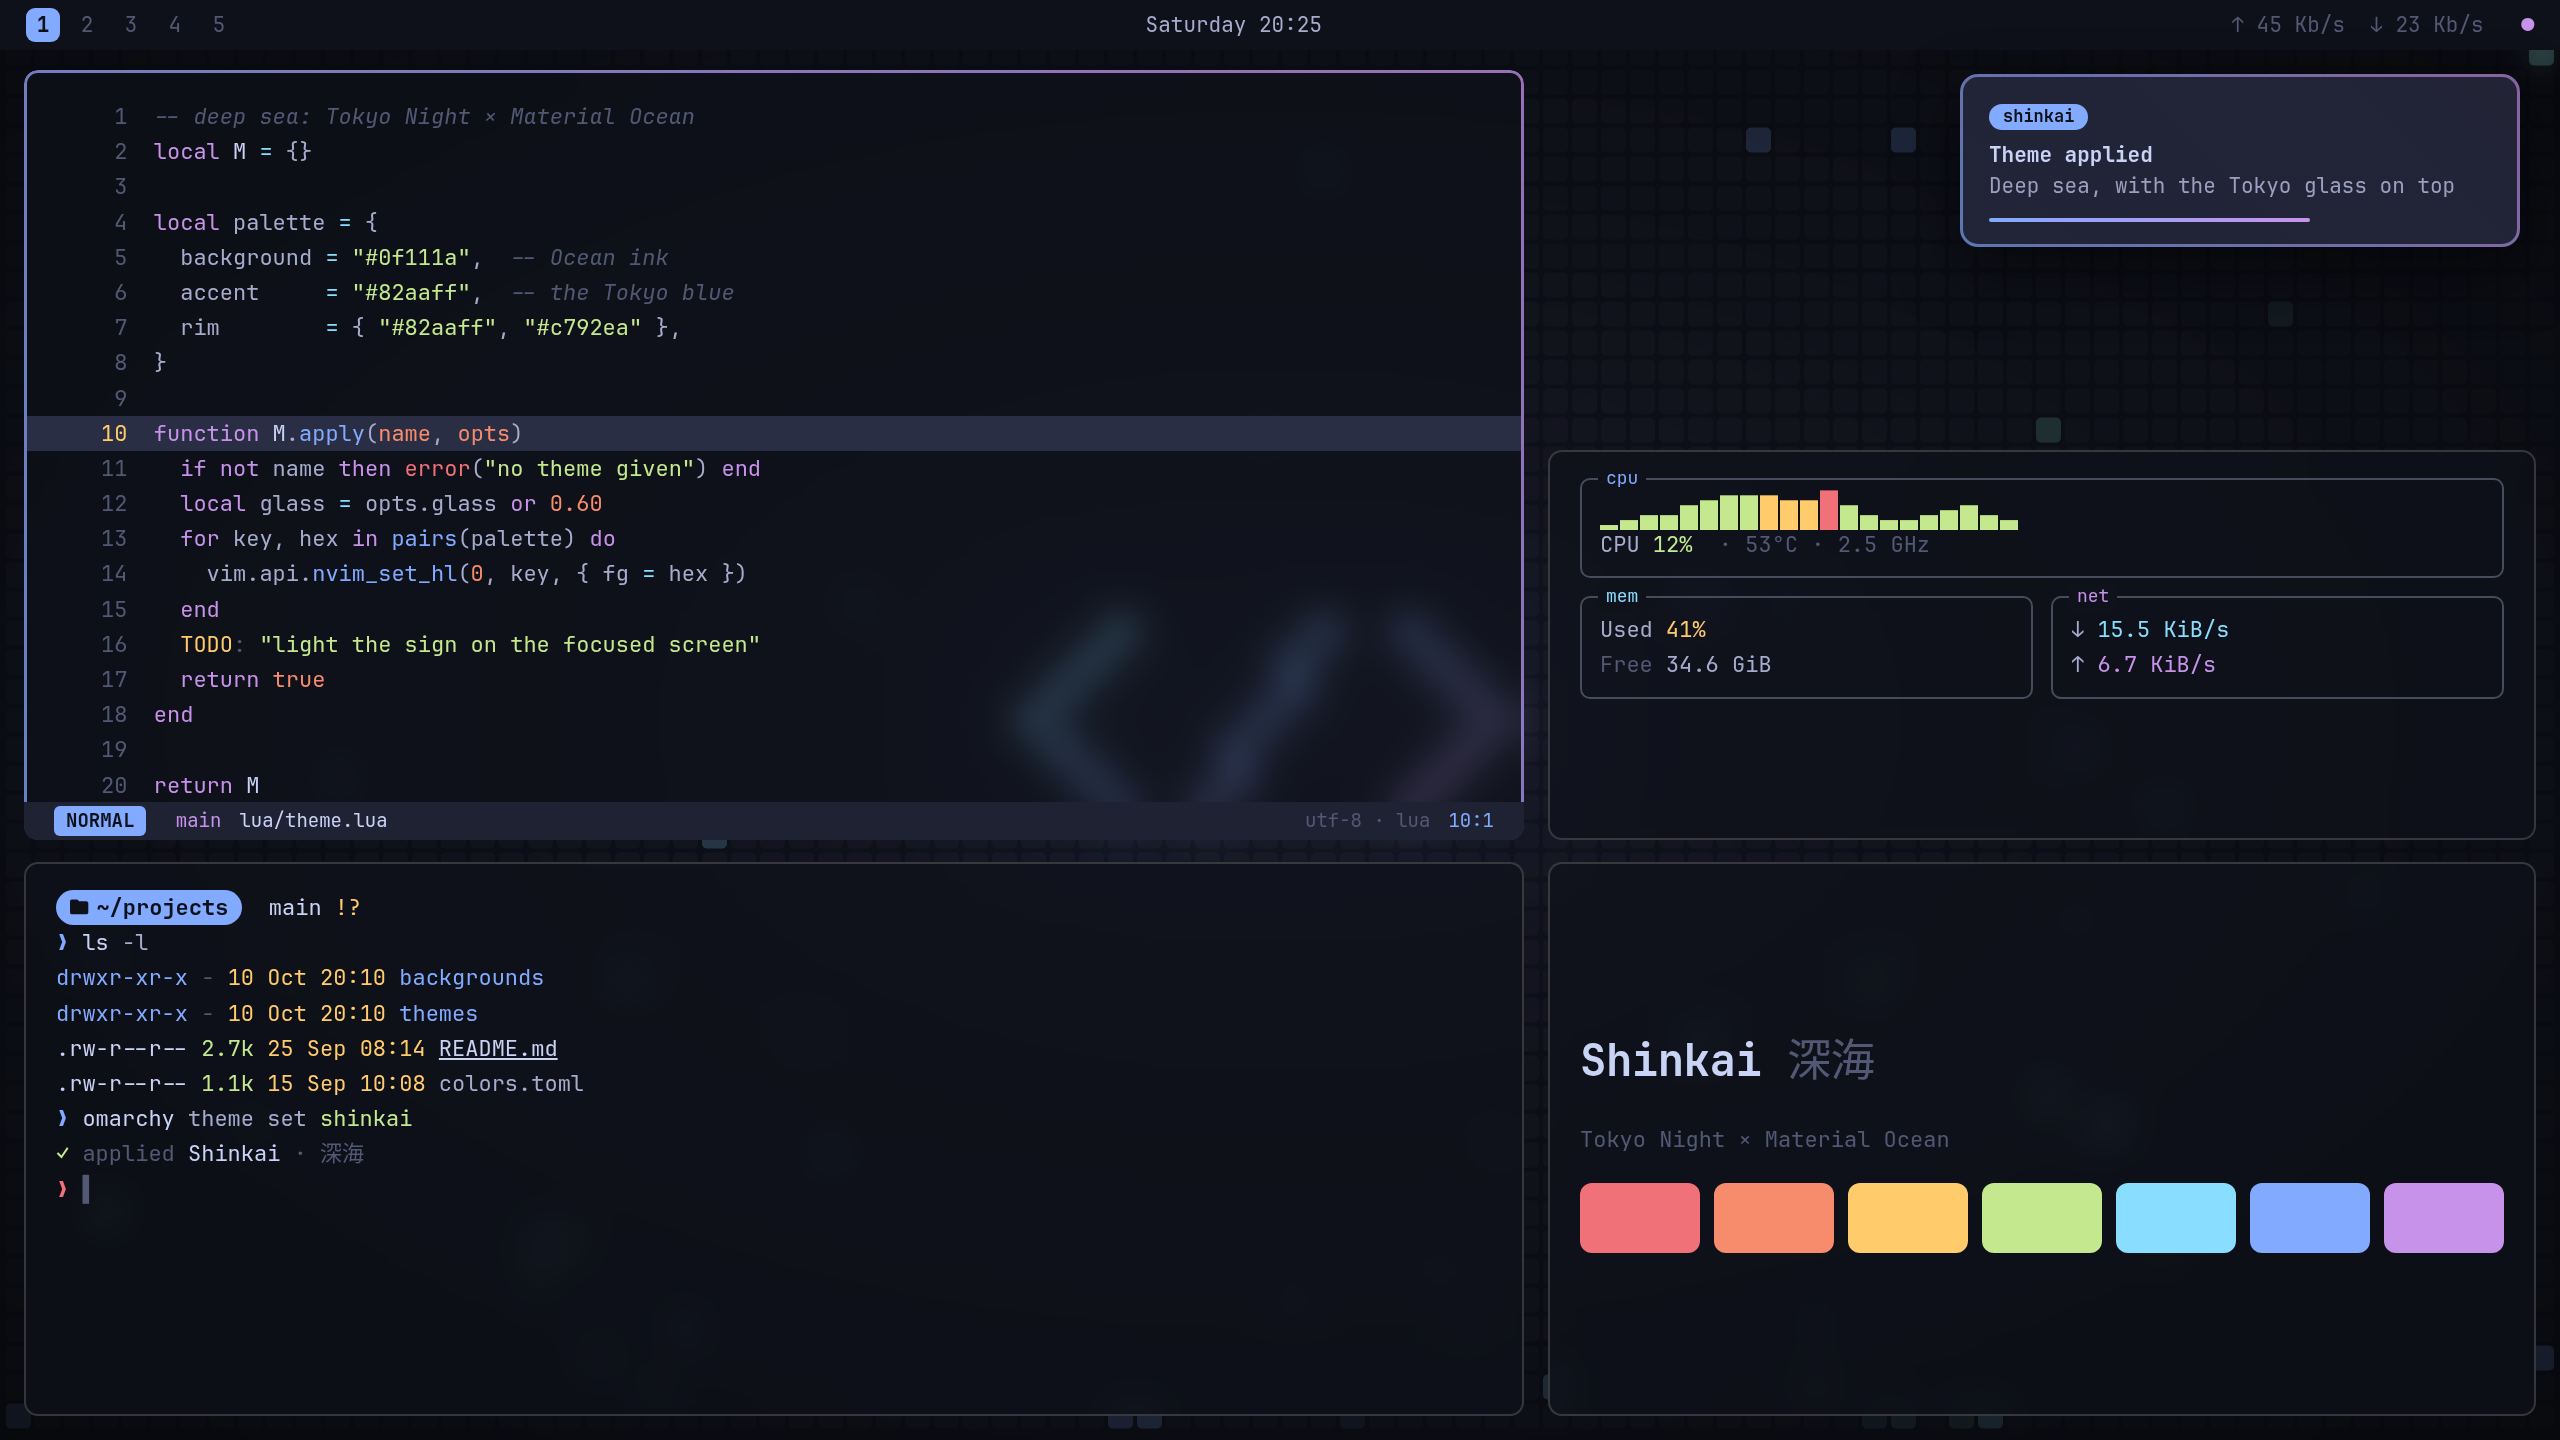
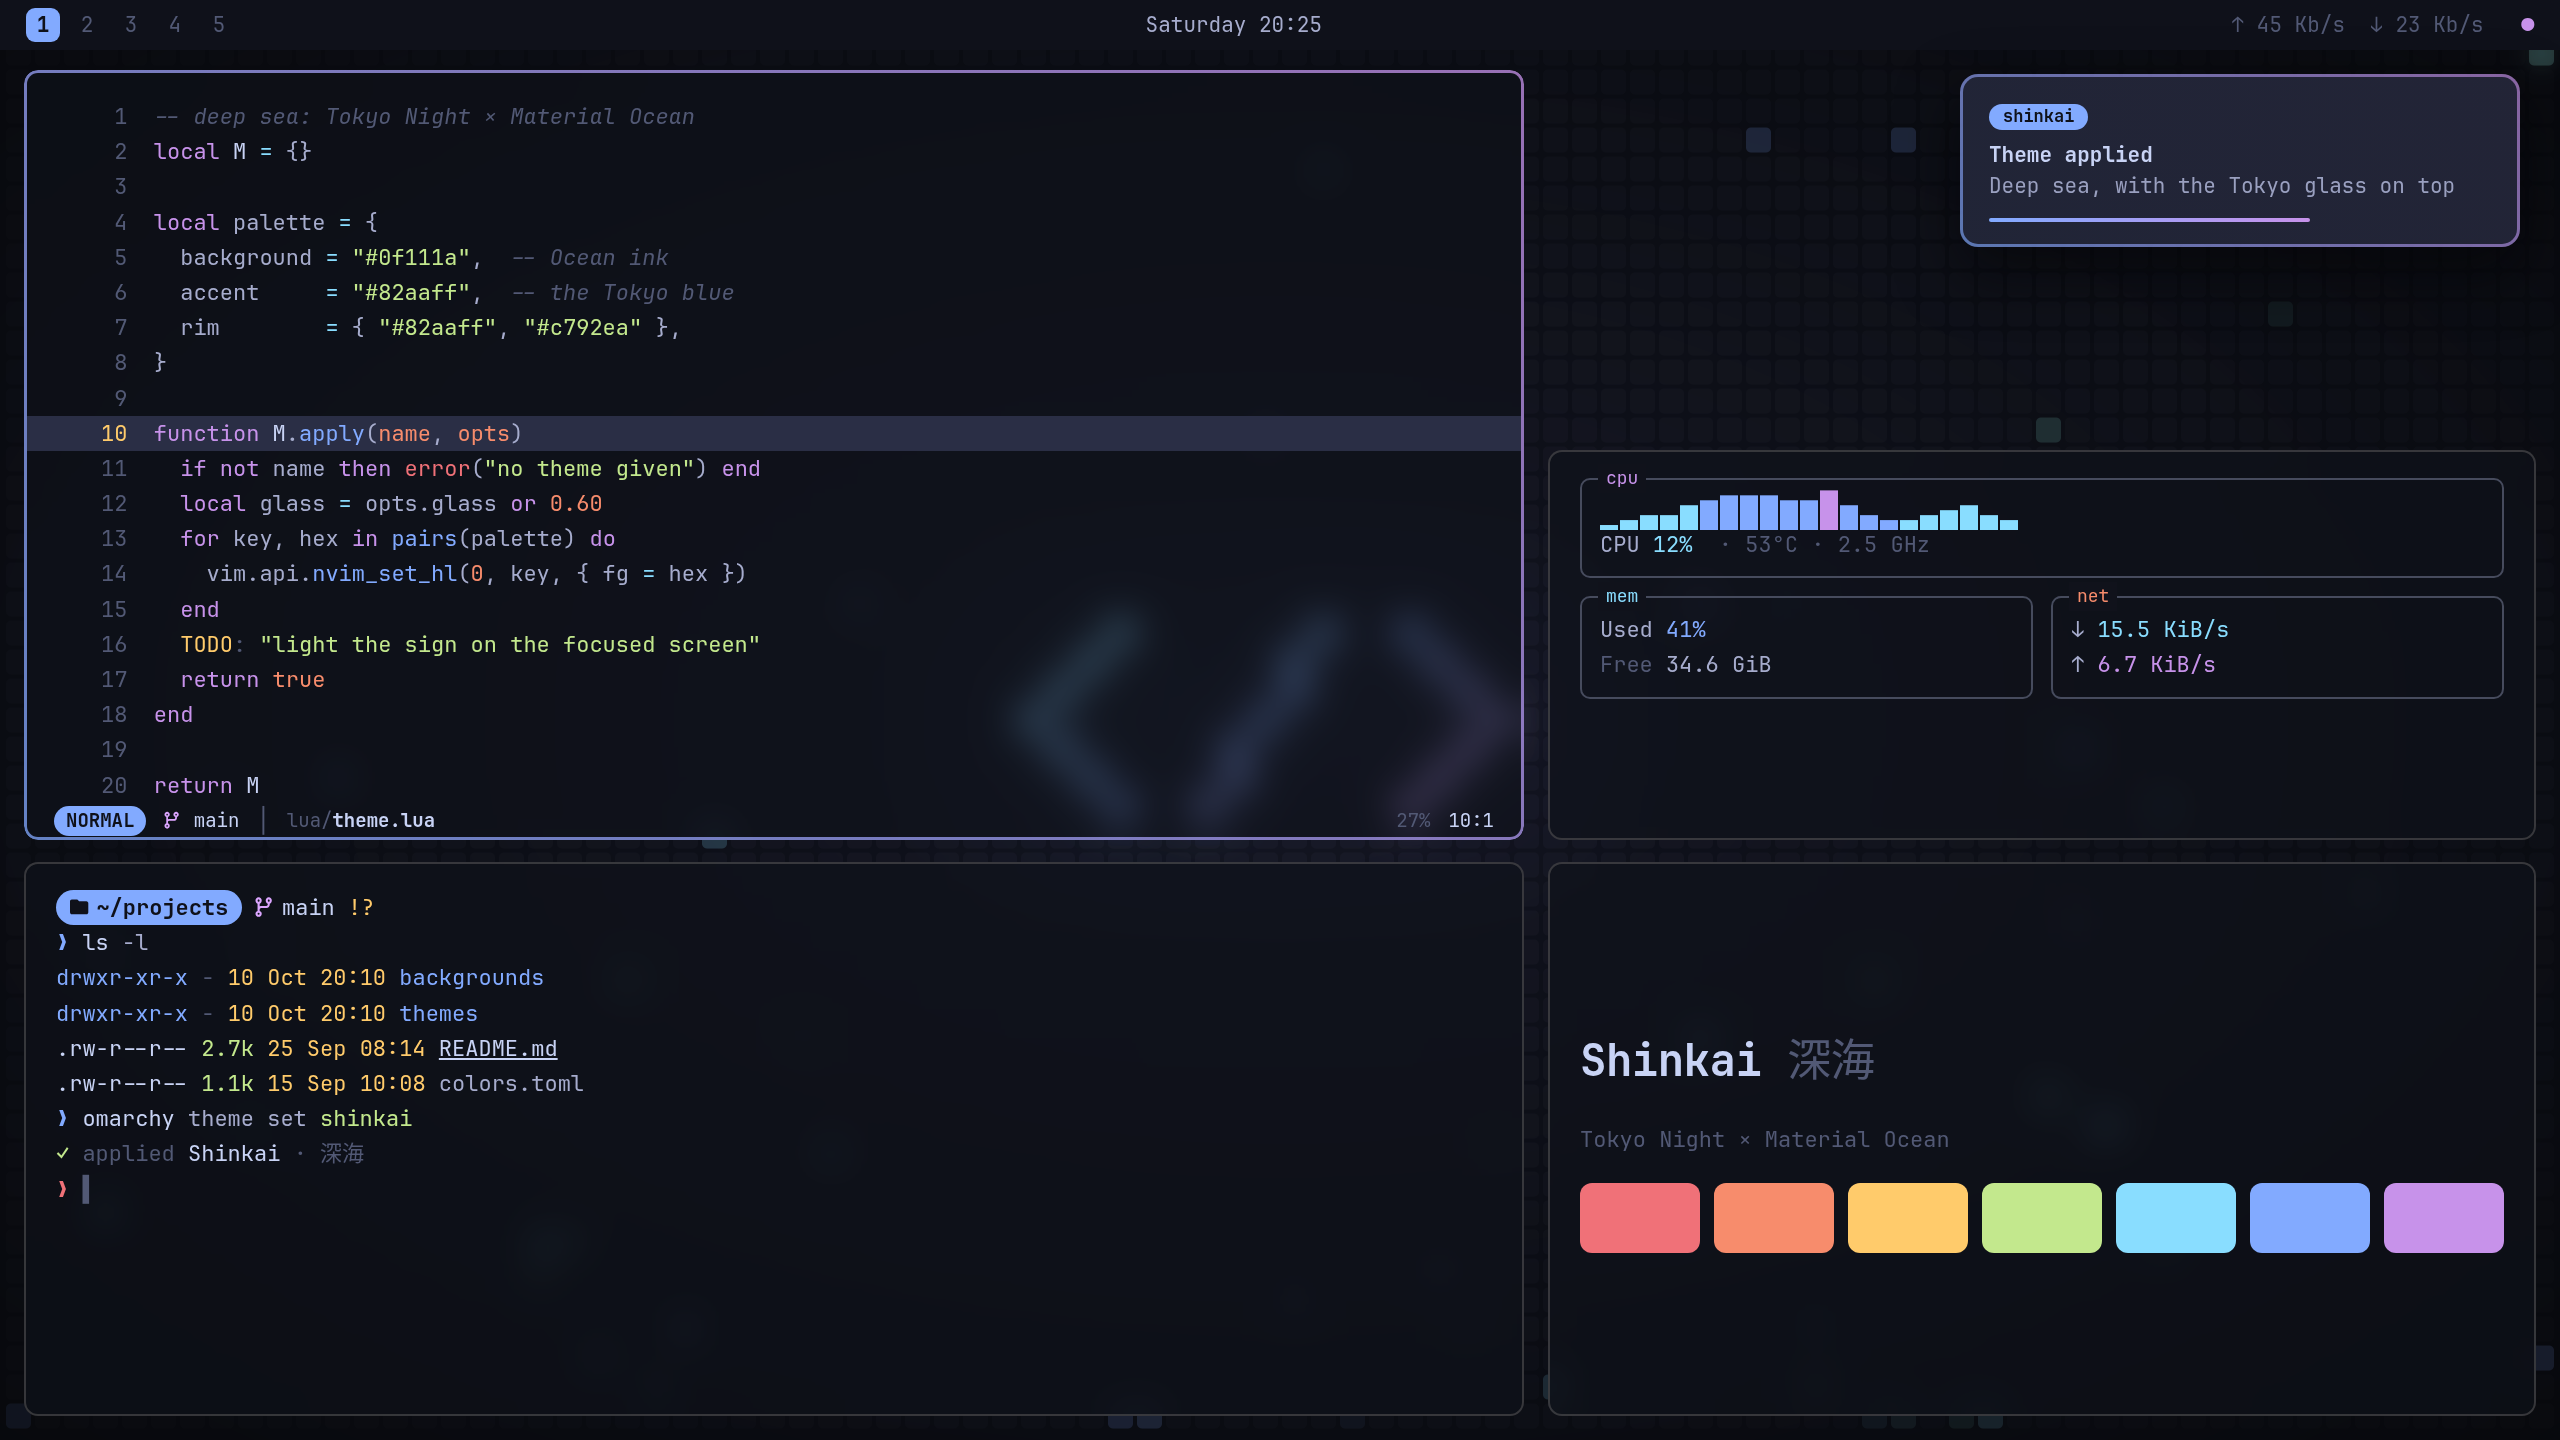
docs: :memo: Show Shinkai's current look in its preview and README
The theme menu's preview still showed the first draft: a square NORMAL block,
a green-to-red CPU graph and no git icons (Nerd Font glyphs were lost on the
way into the mock-up). It now shows the Starship-style status line, btop's cool
graph and the icons, as the desktop draws them. The README lists the app files
Shinkai ships and why Chromium is left on Omarchy's seed.

diff --git a/omarchy/README.md b/omarchy/README.md
@@ -78,7 +78,7 @@ together for different monitors.
 | `omarchy/hooks/post-update.d/custom-check`, `post-boot.d/custom-check` | `~/.config/omarchy/hooks/` | Run `bin/omarchy-custom-check` after `omarchy update` and at login (for updates made with pacman directly); silent when everything is current |
 | `omarchy/clone-baselines/` | `~/.config/omarchy/clone-baselines/` | For each copied plugin, the checksums of the stock plugin it was last brought up to date with |
 | `omarchy/themes/tokyo-night/icons.theme` | `~/.config/omarchy/themes/tokyo-night/` | Yaru-blue app icons with Tokyo Night (Omarchy ships Yaru-magenta) |
-| `omarchy/themes/shinkai/` | `~/.config/omarchy/themes/shinkai/` | Shinkai (深海, "deep sea"), a theme of its own: Tokyo Night's feel sunk into Material Ocean. `colors.toml` takes the surfaces from Material Ocean (ink `#0F111A`, its comment grey), the brighter periwinkle text and blue accent from Tokyo Night, and Material's syntax hues (green, yellow, cyan, purple), with the Palenight brights; Omarchy generates every app's colours from it. `shell.toml` is Omarchy's shell template rendered with those colours plus the same personal glass as the Tokyo Night overlay: the blue → purple rim on panels and prompts, lifted see-through notification cards with a red → purple rim when critical, and a frosted lock field. `neovim.lua` keeps Omarchy's aether.nvim with the palette but sets the syntax colours Shinkai was designed with (keywords purple, functions blue, strings green, numbers, constants and parameters orange, types yellow, operators cyan, built-ins red, readable dim comments, plain names, no bold or italics), since aether's own choices read as a different theme; the glass background still comes from Neovim's `transparency.lua`. Yaru-blue icons, and `preview.png`, a mock desktop in the theme on its Abyss wallpaper: the theme menu only lists a theme with a preview image or a `backgrounds/` folder of its own, and Shinkai's wallpapers live under `~/.config/omarchy/backgrounds/shinkai/` |
+| `omarchy/themes/shinkai/` | `~/.config/omarchy/themes/shinkai/` | Shinkai (深海, "deep sea"), a theme of its own: Tokyo Night's feel sunk into Material Ocean. `colors.toml` takes the surfaces from Material Ocean (ink `#0F111A`, its comment grey), the brighter periwinkle text and blue accent from Tokyo Night, and Material's syntax hues (green, yellow, cyan, purple), with the Palenight brights; Omarchy generates every app's colours from it. `shell.toml` is Omarchy's shell template rendered with those colours plus the same personal glass as the Tokyo Night overlay: the blue → purple rim on panels and prompts, lifted see-through notification cards with a red → purple rim when critical, and a frosted lock field. `neovim.lua` keeps Omarchy's aether.nvim with the palette but sets the syntax colours Shinkai was designed with (keywords purple, functions blue, strings green, numbers, constants and parameters orange, types yellow, operators cyan, built-ins red, readable dim comments, plain names, no bold or italics), since aether's own choices read as a different theme; the glass background still comes from Neovim's `transparency.lua`. It also ships `claude.json`, `btop.theme` and `obsidian.css` (Omarchy's generated files with the colour roles brought in line: yellow, green and red only for real signals, the brights for shimmers, readable dim text, cool heading and frame colours); Chromium stays on Omarchy's seed, the theme background, which is the closest it gets, since the browser derives its own lighter toolbar from any seed and Omarchy's policy overrides extension themes. Yaru-blue icons, and `preview.png`, a mock desktop in the theme on its Abyss wallpaper (with the Starship-style Neovim status line): the theme menu only lists a theme with a preview image or a `backgrounds/` folder of its own, and Shinkai's wallpapers live under `~/.config/omarchy/backgrounds/shinkai/` |
 | `omarchy/defaults/agent` | `~/.config/omarchy/defaults/` | Claude Code as Omarchy's default coding agent |
 | `bin/omarchy-launch-screensaver-main` | `~/.local/bin/` | Omarchy's screensaver launcher, limited to the main screen |
 | `bin/omarchy-screensaver-tokyo` | `~/.local/bin/` | The screensaver: navy background, 14 calm text effects, theme blue→purple finish |
